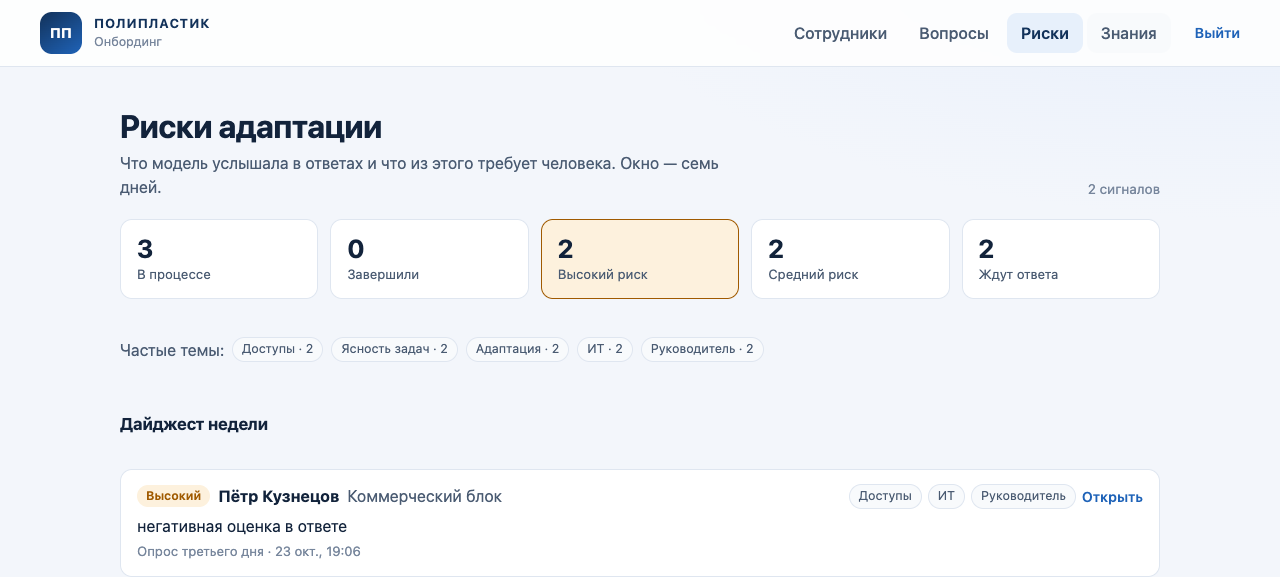
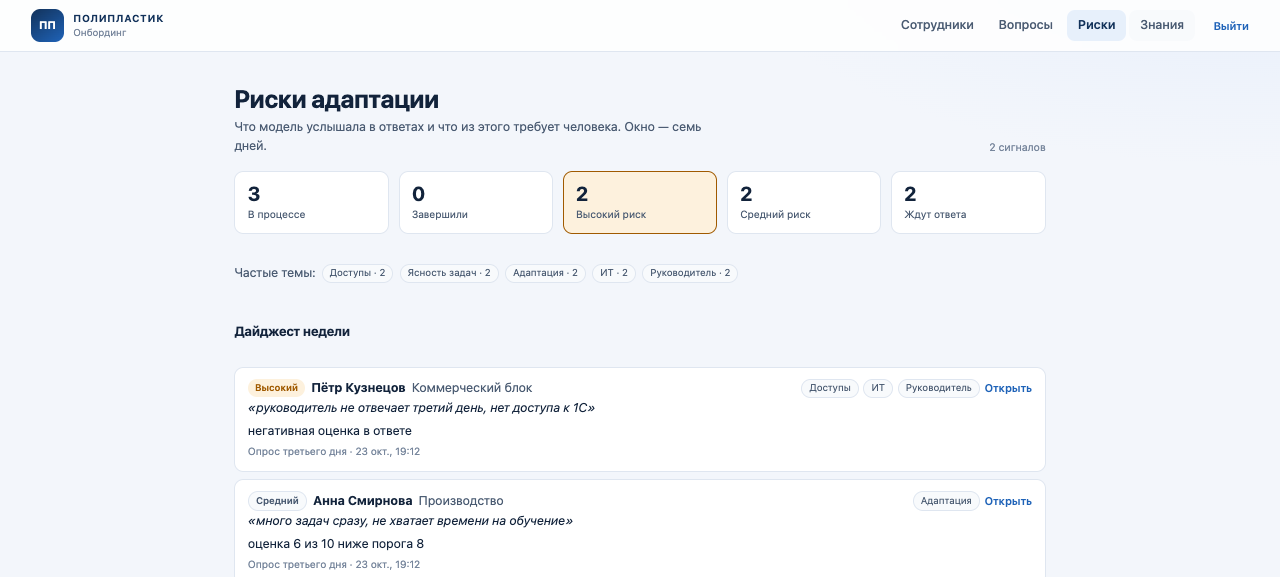
feat(risk): quote the employee in the weekly digest

diff --git a/apps/admin/src/pages/RiskPage.tsx b/apps/admin/src/pages/RiskPage.tsx
@@ -99,6 +99,7 @@ export function RiskPage({
                   <strong>{item.employee_name}</strong>
                   <span className="muted">{item.department}</span>
                 </div>
+                {item.quote ? <p className="digest-quote">«{item.quote}»</p> : null}
                 <p className="digest-reasons">{item.reasons.join("; ") || "без формулировки"}</p>
                 <p className="digest-meta">
                   {item.step_title} · {formatDateTime(item.at)}

diff --git a/apps/admin/src/styles.css b/apps/admin/src/styles.css
@@ -595,6 +595,12 @@ h2 {
   margin: 6px 0 4px;
 }
 
+.digest-quote {
+  margin: 2px 0 4px;
+  color: var(--ink);
+  font-style: italic;
+}
+
 .digest-meta {
   margin: 0;
   color: var(--muted);

diff --git a/apps/admin/src/types.ts b/apps/admin/src/types.ts
@@ -66,6 +66,7 @@ export interface DigestItem {
   level: "high" | "medium";
   reasons: string[];
   tags: string[];
+  quote: string | null;
   at: string;
 }
 

diff --git a/apps/api/onboarding/app/admin/queries.py b/apps/api/onboarding/app/admin/queries.py
@@ -70,6 +70,7 @@ class DigestRecord:
     level: str
     reasons: tuple[str, ...]
     tags: tuple[str, ...]
+    quote: str | None
     at: datetime
 
 
@@ -212,16 +213,26 @@ class AdminQueries:
                 .where(
                     AuditRow.name == "risk_assessed",
                     AuditRow.at >= since,
-                    AuditRow.fields["level"].astext.in_(("high", "medium")),
                     *_scope_filters(recruiter_id, department),
                 )
                 .order_by(desc(AuditRow.at), desc(AuditRow.id))
-                .limit(200)
+                .limit(500)
             )
             rows = (await session.execute(statement)).all()
+        quotes: dict[tuple[str, str], str] = {}
+        for event, _, _ in rows:
+            key = (
+                str(event.fields.get("employee_id", "")),
+                str(event.fields.get("step", "")),
+            )
+            quote = _quote(event.fields.get("evidence"))
+            if quote is not None:
+                quotes.setdefault(key, quote)
         seen: set[tuple[str, str]] = set()
         items: list[DigestRecord] = []
         for event, name, department_name in rows:
+            if event.fields.get("level") not in ("high", "medium"):
+                continue
             employee_id = str(event.fields.get("employee_id", ""))
             step_id = str(event.fields.get("step", ""))
             if (employee_id, step_id) in seen:
@@ -238,6 +249,8 @@ class AdminQueries:
                     level=str(event.fields.get("level", "")),
                     reasons=_texts(event.fields.get("reasons")),
                     tags=_texts(event.fields.get("tags")),
+                    quote=_quote(event.fields.get("evidence"))
+                    or quotes.get((employee_id, step_id)),
                     at=event.at,
                 )
             )
@@ -285,6 +298,18 @@ class AdminQueries:
 
 def _texts(value: object) -> tuple[str, ...]:
     return tuple(str(item) for item in value) if isinstance(value, list) else ()
+
+
+def _quote(value: object) -> str | None:
+    """The employee's own words, so the digest is evidence rather than a label."""
+    if not isinstance(value, list):
+        return None
+    for item in value:
+        if isinstance(item, dict):
+            text = item.get("text")
+            if isinstance(text, str) and text.strip():
+                return text.strip()
+    return None
 
 
 def _scope_filters(recruiter_id: str | None, department: str | None) -> tuple[Any, ...]:

diff --git a/apps/api/tests/test_integration_db.py b/apps/api/tests/test_integration_db.py
@@ -448,6 +448,7 @@ async def test_analytics_and_digest_follow_the_risk_audit(database: Database) ->
         level="high",
         tags=["manager"],
         reasons=["конфликт с руководителем"],
+        evidence=[{"source": "survey:difficulties", "text": "руководитель не отвечает"}],
     )
     await audit.record(
         "risk_assessed",
@@ -456,6 +457,15 @@ async def test_analytics_and_digest_follow_the_risk_audit(database: Database) ->
         level="medium",
         tags=["access"],
         reasons=["доступ не выдали"],
+    )
+    await audit.record(
+        "risk_assessed",
+        employee_id=str(EMPLOYEE),
+        step="day_three_survey",
+        level="low",
+        tags=[],
+        reasons=[],
+        evidence=[{"source": "survey:first_days_score", "text": "нет доступа к 1С"}],
     )
     queries = AdminQueries(database)
 
@@ -472,6 +482,8 @@ async def test_analytics_and_digest_follow_the_risk_audit(database: Database) ->
     )
     assert [item.level for item in digest] == ["medium", "high"]
     assert digest[1].reasons == ("конфликт с руководителем",)
+    assert digest[1].quote == "руководитель не отвечает"
+    assert digest[0].quote == "нет доступа к 1С"
 
     assert (
         await queries.digest(

diff --git a/apps/api/onboarding/app/worker/service.py b/apps/api/onboarding/app/worker/service.py
@@ -176,6 +176,17 @@ class OnboardingService:
             score=assessment.score,
             tags=[tag.value for tag in assessment.tags],
             reasons=list(assessment.reasons),
+            evidence=[
+                {
+                    "source": signal.source,
+                    "text": signal.text[:500],
+                    "sentiment": signal.sentiment.value,
+                    "tags": [tag.value for tag in signal.tags],
+                    "confidence": signal.confidence,
+                }
+                for signal in signals[:3]
+                if signal.text
+            ],
         )
         if assessment.escalate_to is None:
             return False

diff --git a/apps/api/onboarding/api/admin.py b/apps/api/onboarding/api/admin.py
@@ -199,6 +199,7 @@ async def weekly_digest(
                 level=record.level,
                 reasons=list(record.reasons),
                 tags=list(record.tags),
+                quote=record.quote,
                 at=record.at,
             )
             for record in records

diff --git a/apps/api/onboarding/api/schemas.py b/apps/api/onboarding/api/schemas.py
@@ -90,6 +90,7 @@ class DigestItem(BaseModel):
     level: str
     reasons: list[str]
     tags: list[str]
+    quote: str | None
     at: datetime
 
 

diff --git a/docs/contracts/admin-api.md b/docs/contracts/admin-api.md
@@ -108,6 +108,7 @@ materialised table: the cabinet is read-only, and a wrong number must be traceab
       "level": "high",
       "reasons": ["конфликт с руководителем"],
       "tags": ["manager"],
+      "quote": "руководитель не отвечает третий день",
       "at": "2026-10-22T15:30:00Z"
     }
   ],
@@ -115,9 +116,10 @@ materialised table: the cabinet is read-only, and a wrong number must be traceab
 }
 ```
 
-Only `high` and `medium` levels appear. `reasons` and `tags` are the classifier's short phrases,
-never the full answer text: the digest is a list of leads, not a transcript. A manager sees the
-same shape, scoped to one department.
+Only `high` and `medium` levels appear. `reasons` and `tags` are the classifier's short phrases.
+`quote` is the employee's own words, truncated to 500 characters at write time and carried in the
+`risk_assessed` audit event as `evidence`; it is `null` for a pure scale signal, which has no text.
+A manager sees the same shape, scoped to one department.
 
 `KnowledgeDocument`:
 
